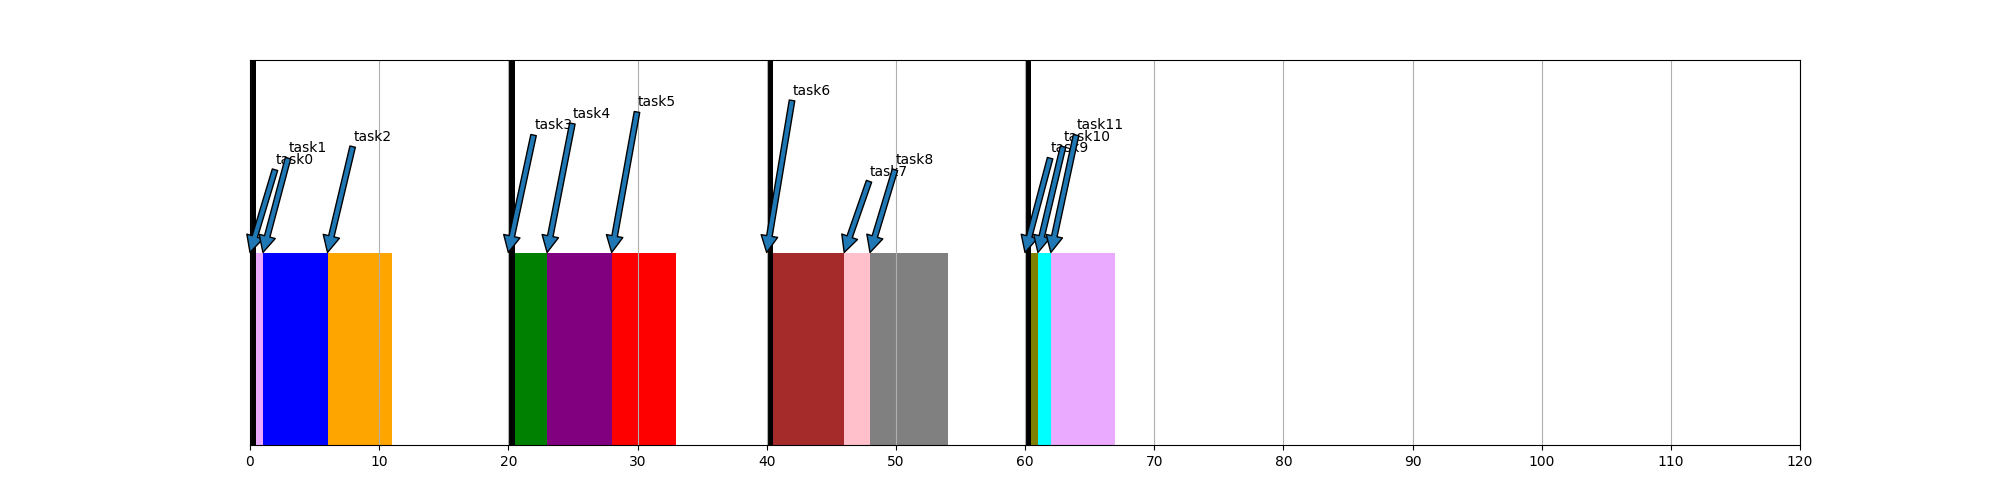
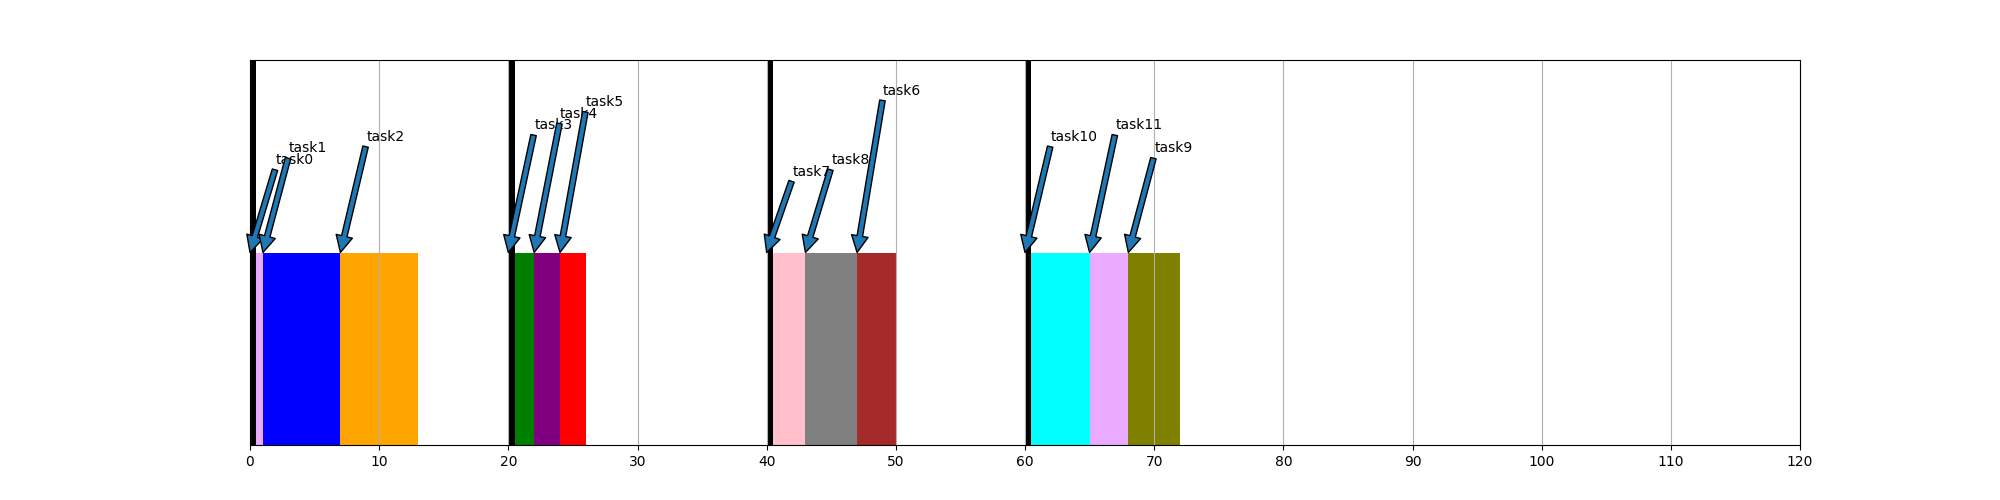
Mb done

Changed region(s): [[0.372, 0.18, 0.589, 0.9], [0.248, 0.18, 0.341, 0.9], [0.155, 0.27, 0.217, 0.9]]

diff --git a/First_run.py b/First_run.py
@@ -11,11 +11,11 @@ import pickle
 
 # DEFINING SOME VARAIBLES TO MAKE MODELLING SYSTEM ABLE TO RUN 
 # ----------------------------------------------------------------------
-TASK_CRASHED_ID = 0
+TASK_CRASHED_ID = 6
 MF_PERIOD = 120
 FIXATOR_TIME = 1
 
-GRAPH_INITIAL_APP = ig.Graph(n=12, edges=[[0, 1], [1, 2], [2, 3], [3, 4], [4, 5], [5, 6], [6, 7], [7, 8], [8, 9], [1, 3], [1, 4], [9, 10], [10, 11]])
+GRAPH_INITIAL_APP = ig.Graph(n=12, edges=[[11, 9], [8, 6]])
 GRAPH_INITIAL_APP.vs["duration"] = [random.randint(1,7) for _ in range(len(GRAPH_INITIAL_APP.vs))]
 
 # Partition numbers sequence must start from 0 
@@ -103,8 +103,8 @@ def Write_xml_first_iter(filename, MF_PERIOD, GRAPH_INITIAL_APP, windows, MAP_TA
         #     file.write("\t\t<window partition=\"0\" start=\"{}\" stop=\"{}\"/>\n".format(i[0], i[1]))
 
         file.write("\t</module>\n")
-        # for e in GRAPH_INITIAL_APP.es:
-        #     file.write("\t<link delay=\"0\" dst=\"{}\" src=\"{}\"/>\n".format(e.tuple[1], e.tuple[0]))
+        for e in GRAPH_INITIAL_APP.es:
+            file.write("\t<link delay=\"0\" dst=\"{}\" src=\"{}\"/>\n".format(e.tuple[0], e.tuple[1]))
         file.write("</system>\n")
 
 
@@ -243,7 +243,7 @@ def write_nvp_xml(graph_main_crash, MF_PERIOD, windows_nvp, second_main_app_grap
         file.write("\t</module>\n")
         for e in GRAPH_INITIAL_APP.es:
             # _res indicates, that message must be sent to or from the other version of the task
-            file.write("\t<link delay=\"0\" dst=\"{}\" src=\"{}\"/>\n".format(e.tuple[1], e.tuple[0] ))
+            file.write("\t<link delay=\"0\" dst=\"{}\" src=\"{}\"/>\n".format(e.tuple[0], e.tuple[1] ))
         file.write("</system>\n")
 
 
